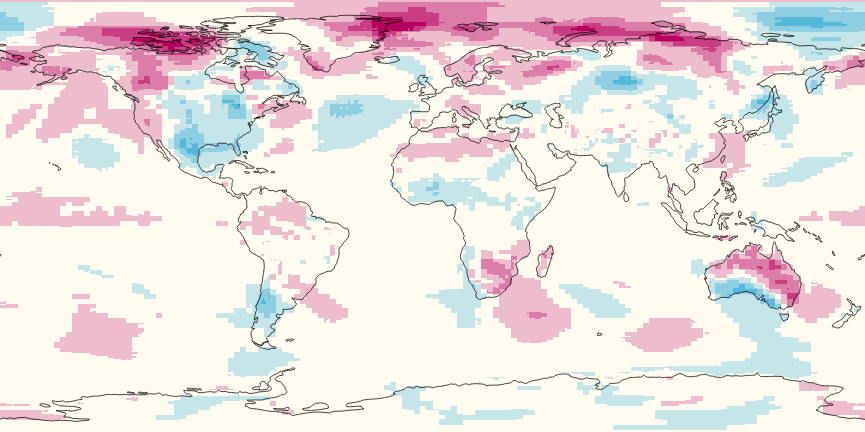
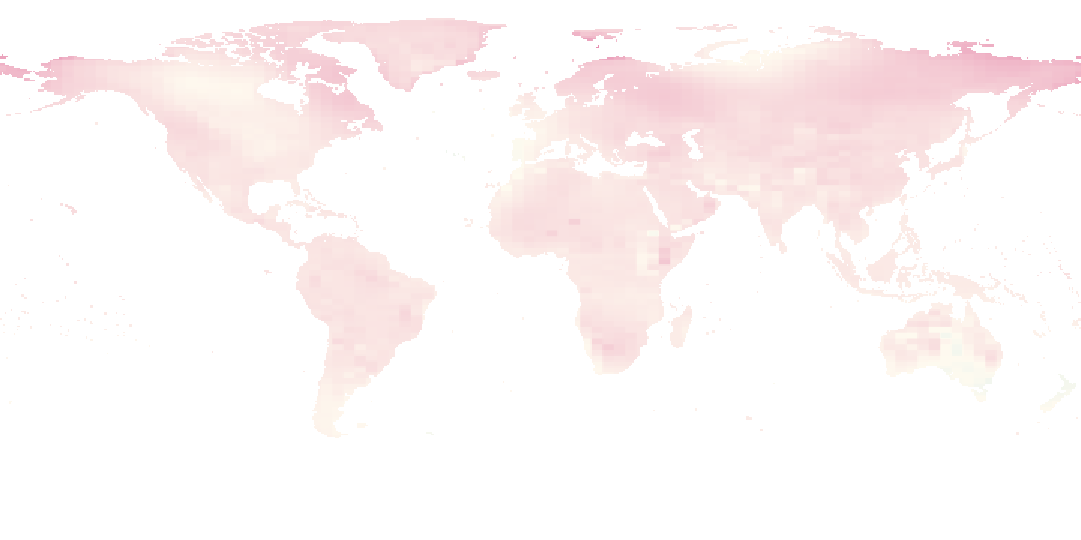
[Update] VisMaps

diff --git a/pages/scenarios-and-models.vue b/pages/scenarios-and-models.vue
@@ -210,6 +210,7 @@
 
     <p>Climate models take us from emissions to things like temperature and precipitation. As with IAMs they describe a complex system,  in this case the earth. Climate models are therefore sometimes also related to as Earth System Models. In contrast to weather models they focus on long term changes whereas spatial and temporal resolution is less important.</p>
 
+    <span>Change in average near surface temperature (2006-2010 to 2095-2099)</span>
     <LayoutColumns>
       <VisMap
         slot="left"
@@ -219,7 +220,7 @@
         scenario="rcp60"/>
     </LayoutColumns>
 
-    <p>This shows the change in average surface temperature from 1986-2005 to 2081-2100 for two different emission scenarios: RCP 2.6 and RCP 8.5.</p>
+    <p>This shows the change in average near surface temperature from 2006-2010 to 2095-2099 for two different emission scenarios: RCP 2.6 and RCP 6.0. As you can see: the overall temperature is going to raise, the intensity varies between regions and the temperature changes in the RCP 6.0 scenario are far more severe.</p>
 
     <h3 id="climate-impact-models">Climate Impact Models</h3>
 

diff --git a/components/VisMap.vue b/components/VisMap.vue
@@ -1,5 +1,6 @@
 <template>
   <div class="VisMap">
+    <div class="title">{{ rcp }}</div>
     <img
       v-if="scenario === 'rcp26'"
       src="~/assets/img/rcp26.png">
@@ -39,6 +40,11 @@ export default {
       max: '+12°C',
       min: '-12°C'
     }
+  },
+  computed: {
+    rcp () {
+      return this.scenario === 'rcp26' ? 'RCP 2.6' : 'RCP 6.0'
+    }
   }
 }
 </script>
@@ -47,6 +53,9 @@ export default {
 @import "~@/assets/style/global";
 .VisMap {
   @include flex-column;
+  .title {
+    width: 100%;
+  }
   .key {
     .color {
       height: 0.8em;
